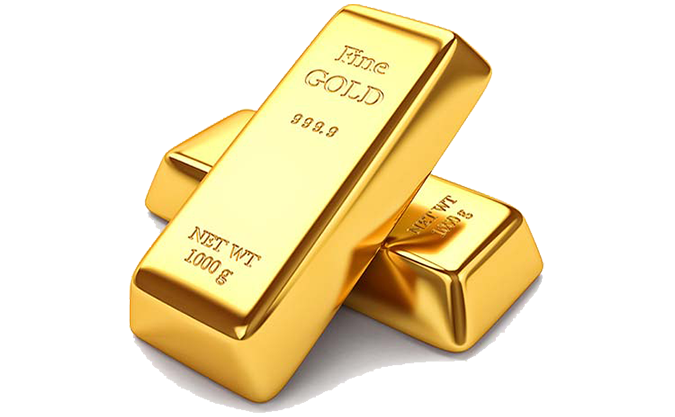
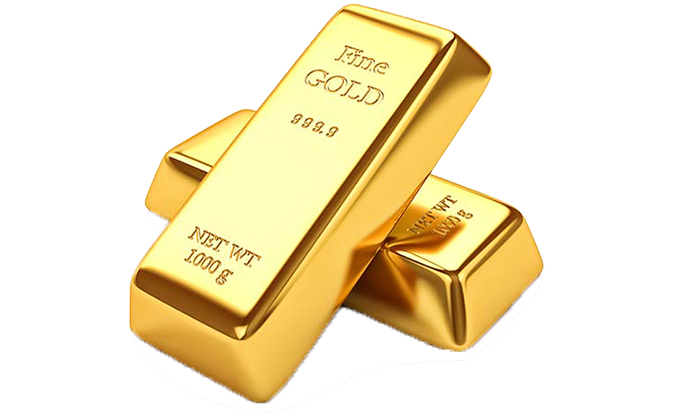
Gold Bar
Updated gold bar image and added seperate js file

Changed region(s): [[0.1867, 0.6547, 0.8089, 0.9976], [0.2178, 0.4988, 0.2489, 0.5923], [0.1867, 0.6235, 0.2178, 0.6547]]

diff --git a/script.js b/script.js
@@ -1,0 +1,53 @@
+		
+		$(document).ready(function(){
+			$(#clear).click(function(){
+				$(#list).empty();
+			});
+			
+		});
+
+		function deleteTile(listNum) {
+		  var tileList = document.getElementsByClassName("tile");
+		  tileList[listNum].style.display = "none";
+		}
+
+		function reset() {
+			var tileIndex;
+			var tileList = document.getElementsByClassName("tile");
+			for (tileIndex=0; tileIndex < tileList.length; tileIndex++) {
+				tileList[tileIndex].style.display = "inline-block";
+			}
+		}
+
+
+
+
+		var slide = 0;
+		carousel();
+
+		function carousel() {
+			var i;
+			var allSlides = document.getElementsByClassName("image");
+			for (i=0; i < allSlides.length; i++) {
+				allSlides[i].style.display = "none";
+			}
+			slide++;
+			if (slide > allSlides.length) {slide = 1}
+			allSlides[slide-1].style.display = "block";
+			setTimeout(carousel, 3000);
+			}
+
+		function changeText(para,edit,button) {
+			document.getElementById(para).style.display = "none";
+			document.getElementById(edit).style.display = "inline-block";
+			document.getElementById(button).style.display = "inline-block";
+		}
+
+		function submit(edit,button,para) {
+			var replace = document.getElementById(edit).value;
+			document.getElementById(edit).style.display = "none";
+			document.getElementById(button).style.display = "none";
+			document.getElementById(para).innerHTML = replace;
+			document.getElementById(para).style.display = "inline-block";
+		}
+		
